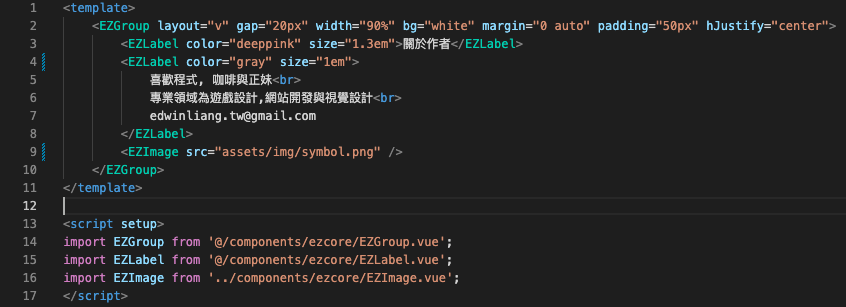
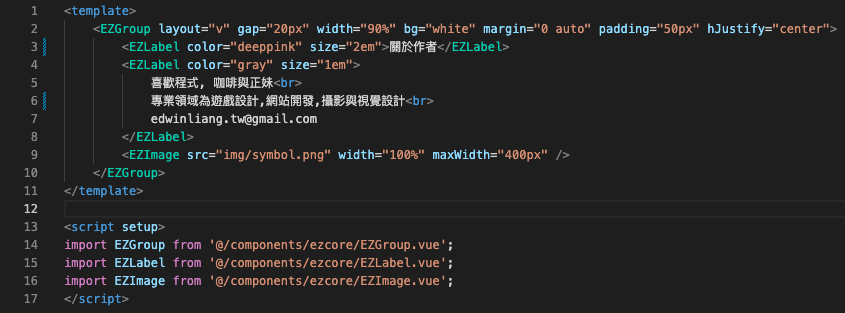
doc fix

diff --git a/src/pages/Doc.vue b/src/pages/Doc.vue
@@ -3,7 +3,7 @@
         <EZGroup layout="v" gap="30px" width="100%" bg="#FFF" vJustify="center" hJustify="center" padding="50px">
             <EZLabel color="deeppink" size="2em">指南手冊</EZLabel>
             <EZLabel color="gray" size="1em">所有元件皆繼承 EZComponent，即 EZGroup, EZButton, EZImage, EZLabel, EZRouterLabel
-                皆有共用 css 屬性來自 EZComponent。</EZLabel>
+                皆有共用 props 屬性來自 EZComponent。</EZLabel>
             <EZImage src="img/sample.png" width="100%" borderRadius="20px" boxShadow="0 0 5px gray" />
             <EZGroup layout="v" width="100%" gap="20px">
                 <!-- EZComponent -->
@@ -59,13 +59,18 @@ size: { type: String, default: '1em' },             // css font-size
 textShadow: { type: String, default: 'none' },      // css text-shadow </pre>
                 </EZLabel>
                 <!-- EZRouterLabel -->
-                <EZLabel color="deeppink" size="1.3em">EZRouterLabel Props (extends EZLabel)</EZLabel>
+                <EZLabel color="deeppink" size="1.3em">EZRouterLabel Props (extends RouterLink, implements EZLabel)
+                </EZLabel>
                 <EZLabel bg="pink" opacity=".8" padding="10px" borderRadius="10px" width="100%">
                     <pre style="overflow:auto">
-to: { type: String, default: '' },                  // vue-router to </pre>
+include all RouterLink props</pre>
                 </EZLabel>
                 <!-- EZButton -->
                 <EZLabel color="deeppink" size="1.3em">EZButton Props (extends EZGroup)</EZLabel>
+                <EZLabel bg="pink" opacity=".8" padding="10px" borderRadius="10px" width="100%">
+                    <pre style="overflow:auto">
+include all EZGroup props</pre>
+                </EZLabel>
             </EZGroup>
         </EZGroup>
     </EZGroup>
@@ -74,5 +79,5 @@ to: { type: String, default: '' },                  // vue-router to </pre>
 <script setup>
 import EZGroup from '@/components/ezcore/EZGroup.vue';
 import EZLabel from '@/components/ezcore/EZLabel.vue';
-import EZImage from '../components/ezcore/EZImage.vue';
+import EZImage from '@/components/ezcore/EZImage.vue';
 </script>

diff --git a/src/pages/Home.vue b/src/pages/Home.vue
@@ -16,7 +16,7 @@
             <EZGroup width="100%" hJustify="space-between" margin="50px 0px" gap="30px">
                 <EZGroup layout="v" width="25%" gap="10px" rwdWidth="720">
                     <EZLabel color="deeppink" size="1.3em">易學易用</EZLabel>
-                    <EZLabel color="gray" size="1em">html 與 css 基本概念掌握即可使用，元件已整理常用 css 建立於標籤屬性上 (文件待補齊)</EZLabel>
+                    <EZLabel color="gray" size="1em">html 與 css 基本概念掌握即可使用，元件已整理常用 css 建立於標籤屬性上</EZLabel>
                 </EZGroup>
                 <EZGroup layout="v" width="25%" gap="10px" rwdWidth="720">
                     <EZLabel color="deeppink" size="1.3em">快速建構</EZLabel>
@@ -55,6 +55,5 @@ npm run dev</pre>
 <script setup>
 import EZGroup from '@/components/ezcore/EZGroup.vue';
 import EZLabel from '@/components/ezcore/EZLabel.vue';
-import EZRouterLabel from '@/components/ezcore/EZLabel.vue';
 import EZButton from '@/components/ezcore/EZButton.vue';
 </script>

diff --git a/src/pages/About.vue b/src/pages/About.vue
@@ -1,9 +1,9 @@
 <template>
     <EZGroup layout="v" gap="20px" width="90%" bg="white" margin="0 auto" padding="50px" hJustify="center">
-        <EZLabel color="deeppink" size="1.3em">關於作者</EZLabel>
+        <EZLabel color="deeppink" size="2em">關於作者</EZLabel>
         <EZLabel color="gray" size="1em">
             喜歡程式, 咖啡與正妹<br>
-            專業領域為遊戲設計,網站開發與視覺設計<br>
+            專業領域為遊戲設計,網站開發,攝影與視覺設計<br>
             edwinliang.tw@gmail.com
         </EZLabel>
         <EZImage src="img/symbol.png" width="100%" maxWidth="400px" />

diff --git a/src/components/ezcore/EZRouterLabel.vue b/src/components/ezcore/EZRouterLabel.vue
@@ -1,5 +1,5 @@
 <template>
-    <RouterLink class="ez-routerlabel" :to="to">
+    <RouterLink class="ez-routerlabel">
         <EZGroup vJustify="center">
             <slot></slot>
         </EZGroup>
@@ -9,7 +9,6 @@
 <script setup>
 import EZGroup from './EZGroup.vue';
 const props = defineProps({
-    to: { type: String, default: '' },
     color: { type: String, default: '#000' },
     size: { type: String, default: '1em' },
     textShadow: { type: String, default: 'none' },

diff --git a/src/components/ezcore/EZComponent.vue b/src/components/ezcore/EZComponent.vue
@@ -5,7 +5,7 @@
 </template>
 
 <script setup>
-import { getCurrentInstance, onMounted, onUnmounted, ref } from 'vue';
+import { onMounted, onUnmounted, ref } from 'vue';
 const refCursor = ref('')
 const refWidth = ref('')
 const props = defineProps({
